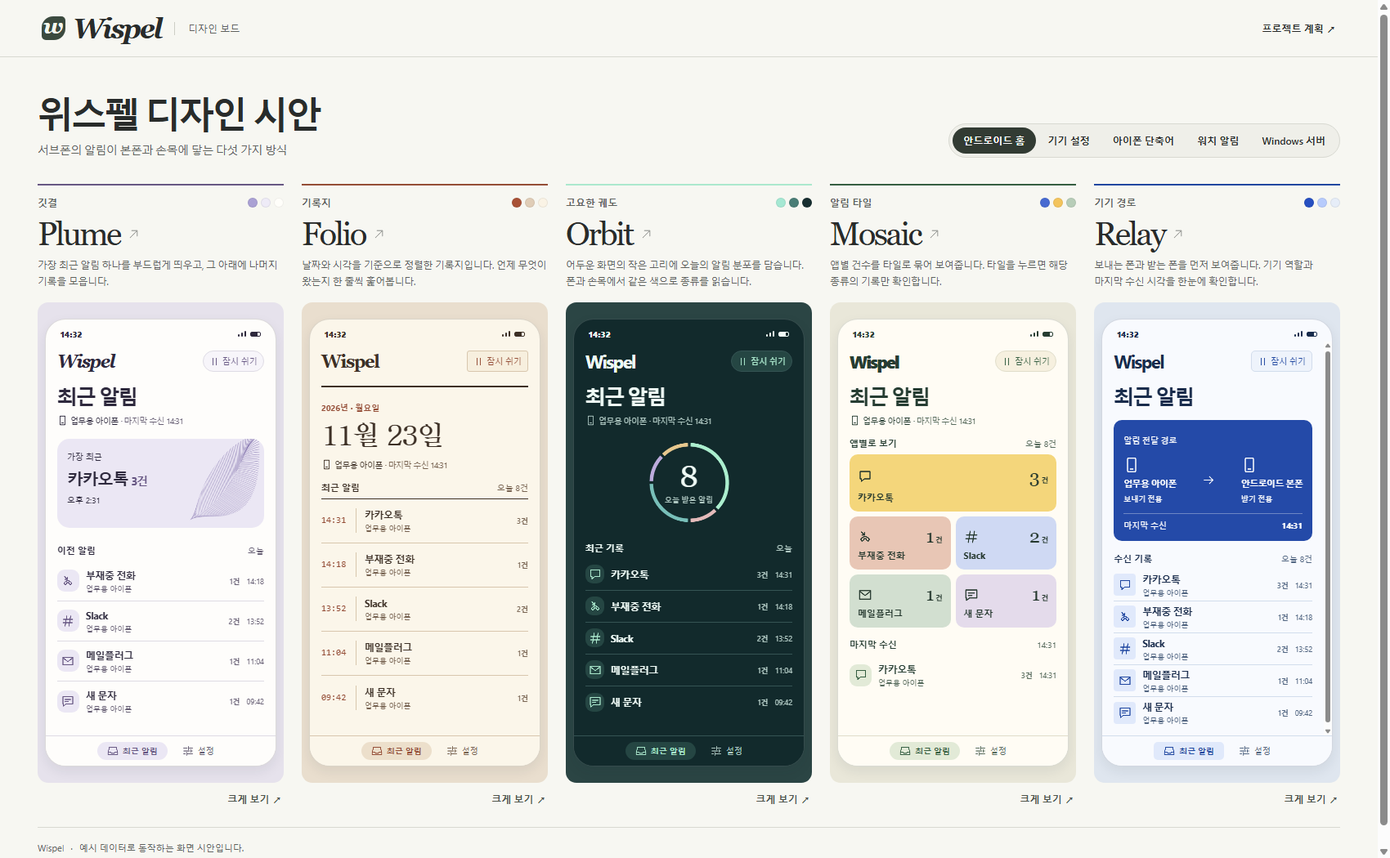
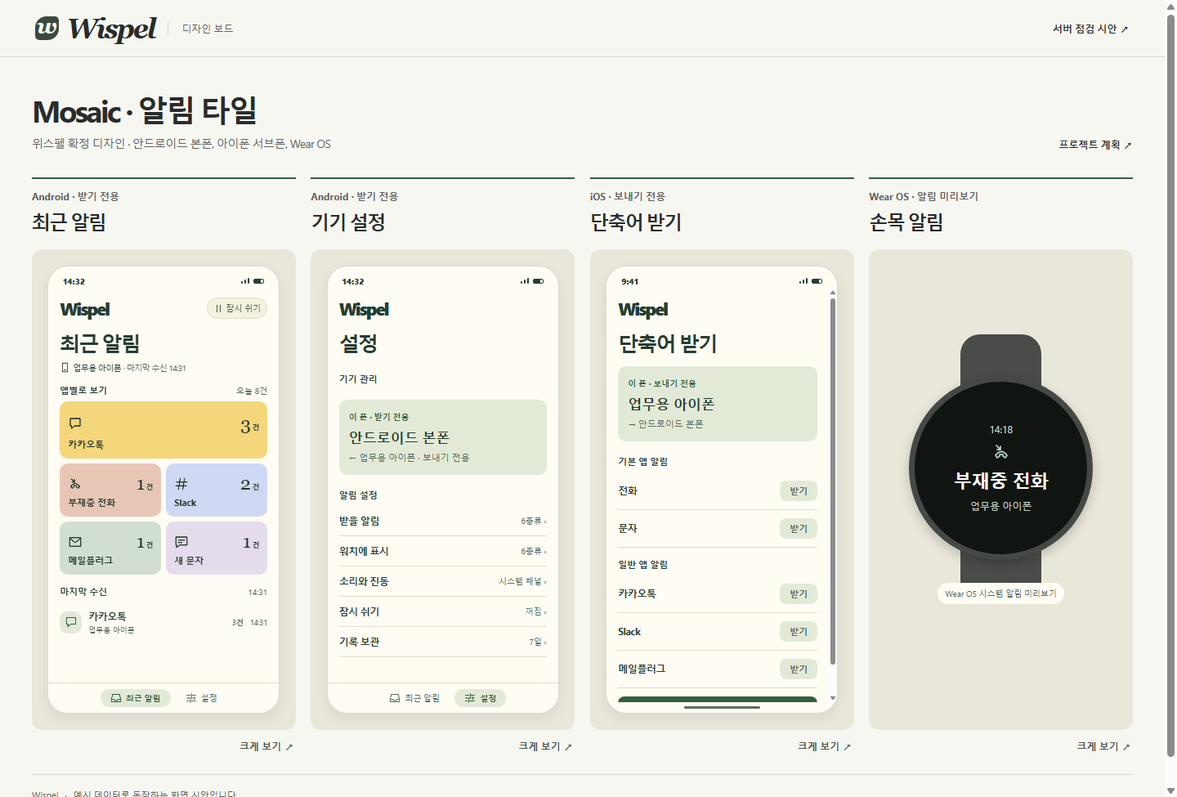
Mosaic 디자인 확정 및 읽기 전용 서버 점검 웹 분리

diff --git a/design/board.js b/design/board.js
@@ -1,12 +1,6 @@
 function buildBoard() {
-  const concepts = [
-    {id:'plume',name:'Plume',label:'깃결',desc:'가장 최근 알림 하나를 부드럽게 띄우고, 그 아래에 나머지 기록을 모읍니다.',palette:['#aaa1d4','#eeebf7','#fffefa']},
-    {id:'folio',name:'Folio',label:'기록지',desc:'날짜와 시각을 기준으로 정렬한 기록지입니다. 언제 무엇이 왔는지 한 줄씩 훑어봅니다.',palette:['#a85136','#e0cdb7','#faf3e5']},
-    {id:'orbit',name:'Orbit',label:'고요한 궤도',desc:'어두운 화면의 작은 고리에 오늘의 알림 분포를 담습니다. 폰과 손목에서 같은 색으로 종류를 읽습니다.',palette:['#a5e8d3','#497d76','#172e30']},
-    {id:'tiles',name:'Mosaic',label:'알림 타일',desc:'앱별 건수를 타일로 묶어 보여줍니다. 타일을 누르면 해당 종류의 기록만 확인합니다.',palette:['#476ad1','#f3c45d','#b7cdb8']},
-    {id:'relay',name:'Relay',label:'기기 경로',desc:'보내는 폰과 받는 폰을 먼저 보여줍니다. 기기 역할과 마지막 수신 시각을 한눈에 확인합니다.',palette:['#264fc1','#b7cbfc','#e6edf8']}
-  ];
-  const views = {home:'안드로이드 홈',settings:'기기 설정',ios:'아이폰 단축어',watch:'워치 알림',server:'Windows 서버'};
+  const views = {home:'최근 알림',settings:'기기 설정',ios:'단축어 받기',watch:'손목 알림'};
+  const labels = {home:'Android · 받기 전용',settings:'Android · 받기 전용',ios:'iOS · 보내기 전용',watch:'Wear OS · 알림 미리보기'};
   const events = [
     {app:'카카오톡',icon:'chat',time:'14:31',qty:3},
     {app:'부재중 전화',icon:'call',time:'14:18',qty:1},
@@ -31,11 +25,10 @@ function buildBoard() {
     bell:'M5 16h14l-2-3V9a5 5 0 0 0-10 0v4z M10 20h4',
     external:'M5 19L19 5M8 5h11v11',retry:'M19 10a7 7 0 1 0 0 6 M19 4v6h-6'
   };
-  const state = concepts.map(()=>({paused:'',until:0,watch:new Set(settingsKinds),receive:new Set(settingsKinds),history:'7일',test:false}));
-  let view='home', selected=0, detailView='home';
+  const state = {paused:'',until:0,watch:new Set(settingsKinds),receive:new Set(settingsKinds),history:'7일'};
+  let detailView='home';
   const gallery=document.querySelector('#gallery'), detail=document.querySelector('#detail'), sheet=document.querySelector('#sheet');
   const icon=(name,size=16)=>`<canvas class="icon" aria-hidden="true" data-icon="${name}" width="48" height="48" style="width:${size}px;height:${size}px"></canvas>`;
-  const art=(type)=>`<canvas class="art art-${type}" data-art="${type}" width="450" height="240" aria-hidden="true"></canvas>`;
   const button=(action,text,cls='',label='')=>`<button type="button" data-action="${action}" class="${cls}"${label?` aria-label="${label}"`:''}>${text}</button>`;
   const dot=(e)=>`<span class="app-icon i-${e.icon}">${icon(e.icon)}</span>`;
   const total=events.reduce((n,e)=>n+e.qty,0);
@@ -45,24 +38,16 @@ function buildBoard() {
   function list(items,mode='') {
     return `<div class="events ${mode}">${items.map(e=>`<div class="event"><time>${e.time}</time>${dot(e)}<div class="event-label"><strong>${e.app}</strong><small>업무용 아이폰</small></div><b class="qty">${e.qty}건</b></div>`).join('')}</div>`;
   }
-  function route() {
-    return `<div class="route"><div>${icon('phone',20)}<strong>업무용 아이폰</strong><small>보내기 전용</small></div>${icon('arrow',17)}<div>${icon('phone',20)}<strong>안드로이드 본폰</strong><small>받기 전용</small></div></div>`;
-  }
-  function home(i) {
-    const s=state[i], pause=button('pause',icon(s.paused?'play':'pause',13)+(s.paused?'재개':'잠시 쉬기'),'pill');
+  function home() {
+    const s=state, pause=button('pause',icon(s.paused?'play':'pause',13)+(s.paused?'재개':'잠시 쉬기'),'pill');
     const source=`<div class="source">${icon('phone',13)} 업무용 아이폰 <span>· 마지막 수신 14:31</span></div>`;
     const header=`<div class="app-head"><span class="word">Wispel</span>${pause}</div>`;
     const section=(name,n)=>`<div class="section-label"><b>${name}</b><span>${n}</span></div>`;
-    let body='';
-    if(i===0) body=`<h3>최근 알림</h3>${source}<div class="hero feather">${art('feather')}<small>가장 최근</small><strong>카카오톡 <em>3건</em></strong><span>오후 2:31</span></div>${section('이전 알림','오늘')}${list(events.slice(1))}`;
-    if(i===1) body=`<div class="folio-title"><small>2026년 · 월요일</small><h3>11월 23일</h3></div>${source}${section('최근 알림',`오늘 ${total}건`)}${list(events,'timeline')}`;
-    if(i===2) body=`<h3>최근 알림</h3>${source}<div class="orbit-stat">${art('ring')}<div><strong>${total}</strong><small>오늘 받은 알림</small></div></div>${section('최근 기록','오늘')}${list(events,'compact')}`;
-    if(i===3) body=`<h3>최근 알림</h3>${source}${section('앱별로 보기',`오늘 ${total}건`)}<div class="tile-grid">${events.map(e=>button('app-'+e.icon,`${icon(e.icon,18)}<b>${e.qty}<small>건</small></b><strong>${e.app}</strong>`,'tile t-'+e.icon)).join('')}</div>${section('마지막 수신','14:31')}${list(events.slice(0,1))}`;
-    if(i===4) body=`<h3>최근 알림</h3><div class="route-hero"><small>알림 전달 경로</small>${route()}<div class="last">마지막 수신 <b>14:31</b></div></div>${section('수신 기록',`오늘 ${total}건`)}${list(events,'compact')}`;
+    const body=`<h3>최근 알림</h3>${source}${section('앱별로 보기',`오늘 ${total}건`)}<div class="tile-grid">${events.map(e=>button('app-'+e.icon,`${icon(e.icon,18)}<b>${e.qty}<small>건</small></b><strong>${e.app}</strong>`,'tile t-'+e.icon)).join('')}</div>${section('마지막 수신','14:31')}${list(events.slice(0,1))}`;
     return header+(s.paused?`<div class="notice">전달 일시정지 · ${s.paused}</div>`:'')+body;
   }
-  function settings(i) {
-    const s=state[i];
+  function settings() {
+    const s=state;
     const row=(key,title,sub)=>button(key,`<b>${title}</b><span>${sub} ›</span>`,'setting-row');
     return `<div class="app-head"><span class="word">Wispel</span></div><h3>설정</h3>
       <div class="section-label"><b>기기 관리</b></div><div class="device-card"><small>이 폰 · 받기 전용</small><strong>안드로이드 본폰</strong><div>← 업무용 아이폰 · 보내기 전용</div></div>
@@ -72,18 +57,13 @@ function buildBoard() {
     const rows=(names)=>names.map(name=>`<div class="shortcut"><b>${name}</b>${button('shortcut-'+name,'받기','get',`${name} 단축어 받기`)}</div>`).join('');
     return `<div class="app-head"><span class="word">Wispel</span></div><h3>단축어 받기</h3><div class="device-card"><small>이 폰 · 보내기 전용</small><strong>업무용 아이폰</strong><div>→ 안드로이드 본폰</div></div><div class="section-label"><b>기본 앱 알림</b></div>${rows(['전화','문자'])}<div class="section-label"><b>일반 앱 알림</b></div>${rows(['카카오톡','Slack','메일플러그'])}${button('ios-test','시험 알림 보내기','primary')}`;
   }
-  function watch(i) {
-    const s=state[i], visible=s.watch.has('부재중 전화')&&s.receive.has('부재중 전화')&&!s.paused;
+  function watch() {
+    const s=state, visible=s.watch.has('부재중 전화')&&s.receive.has('부재중 전화')&&!s.paused;
     return `<div class="watch-wrap"><span class="strap"></span><div class="dial"><time>14:18</time>${icon('call',24)}<b>${visible?'부재중 전화':'알림 없음'}</b><small>${visible?'업무용 아이폰':'위스펠'}</small></div></div><div class="watch-caption">Wear OS 시스템 알림 미리보기</div>`;
   }
-  function server(i,large) {
-    const s=state[i], stage=s.test?'시험 알림':'카카오톡';
-    return `<div class="server ${large?'large':''}"><div class="window-head"><i></i><i></i><i></i><span>Wispel · 로컬 관리</span></div><div class="server-pad"><div class="app-head"><span class="word">Wispel</span><small>서비스 실행 중</small></div><h3>전달 현황</h3><div class="stats"><div><small>발송 대기</small><b>0</b></div><div><small>최근 오류</small><b>0</b></div></div><div class="section-label"><b>등록 기기</b></div>${route()}<div class="section-label"><b>최근 이벤트</b><span>${stage}</span></div><ol class="trace">${['서버 접수','FCM 접수','본폰 수신 확인'].map((t,j)=>`<li><b>${t}</b><time>${s.test?'14:32':'14:31'}:0${j}</time></li>`).join('')}</ol>${button('test','본폰에 시험 알림 보내기','primary')}${button('register','기기 등록','secondary')}</div></div>`;
-  }
-  function frame(i,key,large=false) {
-    if(key==='watch') return watch(i);
-    if(key==='server') return server(i,large);
-    return `<div class="phone ${key}">${status(key==='ios')}<div class="screen">${key==='home'?home(i):key==='ios'?ios():settings(i)}</div>${key==='ios'?'<div class="ios-home"></div>':`<nav class="phone-nav" aria-label="본폰 메뉴">${button('nav-home',icon('inbox',14)+'최근 알림',key==='home'?'active':'')}${button('nav-settings',icon('settings',14)+'설정',key==='settings'?'active':'')}</nav>`}</div>`;
+  function frame(key) {
+    if(key==='watch') return watch();
+    return `<div class="phone ${key}">${status(key==='ios')}<div class="screen">${key==='home'?home():key==='ios'?ios():settings()}</div>${key==='ios'?'<div class="ios-home"></div>':`<nav class="phone-nav" aria-label="본폰 메뉴">${button('nav-home',icon('inbox',14)+'최근 알림',key==='home'?'active':'')}${button('nav-settings',icon('settings',14)+'설정',key==='settings'?'active':'')}</nav>`}</div>`;
   }
   function viewButtons(active) {
     return Object.entries(views).map(([key,label])=>`<button data-view="${key}" aria-pressed="${key===active}">${label}</button>`).join('');
@@ -95,40 +75,25 @@ function buildBoard() {
       if(c.dataset.icon) {
         ctx.save();ctx.scale(2,2);ctx.strokeStyle=getComputedStyle(c).color;ctx.lineWidth=1.65;ctx.lineCap='round';ctx.lineJoin='round';
         const path=paths[c.dataset.icon]; if(path) ctx.stroke(new Path2D(path));ctx.restore();
-      } else if(c.dataset.art==='feather') {
-        ctx.save();ctx.translate(210,130);ctx.rotate(-0.72);
-        for(let k=0;k<66;k++) {
-          const t=k/65,x=-120+260*t, y=27*Math.sin(t*Math.PI)-22*t, width=70*Math.pow(Math.sin(t*Math.PI),0.8);
-          ctx.strokeStyle=`rgba(99,79,151,${0.28+0.27*t})`;ctx.lineWidth=1.5;
-          for(const side of [-1,1]) {
-            ctx.beginPath();ctx.moveTo(x,y);ctx.quadraticCurveTo(x+8+24*t,y+side*width*.55,x+24+20*t,y+side*width);ctx.stroke();
-          }
-        }
-        ctx.restore();
-      } else {
-        const colors=['#abeece','#e3baba','#78bfb9','#bcabdc','#e6c78e'];
-        let angle=-Math.PI/2;
-        events.forEach((e,j)=>{const end=angle+2*Math.PI*e.qty/total;ctx.beginPath();ctx.strokeStyle=colors[j];ctx.lineWidth=9;ctx.arc(225,120,95,angle+.035,end-.035);ctx.stroke();angle=end;});
       }
     }
   }
   function draw() {
-    for(const s of state) if(s.until && Date.now()>=s.until){s.paused='';s.until=0;}
-    document.querySelector('#views').innerHTML=viewButtons(view);
-    gallery.innerHTML=concepts.map((c,i)=>`<article class="board ${c.id}" data-i="${i}"><div class="board-top"><span>${c.label}</span><div class="palette" aria-hidden="true">${c.palette.map(p=>`<i style="background:${p}"></i>`).join('')}</div></div><h2>${button('expand',c.name+' '+icon('external',15),'expand',`${c.label} 시안 크게 보기`)}</h2><p class="summary">${c.desc}</p><div class="stage stage-${view}">${frame(i,view)}</div>${button('expand','크게 보기 ↗','open-detail')}</article>`).join('');
+    if(state.until && Date.now()>=state.until){state.paused='';state.until=0;}
+    gallery.innerHTML=Object.entries(views).map(([key,label])=>`<article class="board tiles" data-screen="${key}"><div class="board-top">${labels[key]}</div><h2>${label}</h2><div class="stage stage-${key}">${frame(key)}</div>${button('expand','크게 보기 ↗','open-detail',label+' 크게 보기')}</article>`).join('');
     paint(gallery);
     if(detail.open) renderDetail();
   }
   function renderDetail() {
-    const c=concepts[selected];
-    document.querySelector('#detail-heading').textContent=c.name+' · '+c.label;
-    document.querySelector('#detail-copy').textContent=c.desc;
+    document.querySelector('#detail-heading').textContent=views[detailView];
+    document.querySelector('#detail-copy').textContent=labels[detailView];
     document.querySelector('#detail-views').innerHTML=viewButtons(detailView);
     const stage=document.querySelector('#detail-stage');
-    stage.className=`stage ${c.id} stage-${detailView}`;stage.innerHTML=frame(selected,detailView,true);paint(stage);
+    stage.className=`stage tiles stage-${detailView}`;
+    stage.innerHTML=frame(detailView);paint(stage);
   }
-  function openDetail(i,key) {
-    selected=i;detailView=key;
+  function openDetail(key) {
+    detailView=key;
     if(!detail.open) detail.showModal();
     renderDetail();
   }
@@ -136,10 +101,9 @@ function buildBoard() {
     document.querySelector('#sheet-content').innerHTML=`<h2 id="sheet-title">${title}</h2>${body}`;
     if(!sheet.open) sheet.showModal();
   }
-  function act(i,key) {
-    const s=state[i];
-    if(key==='expand') return openDetail(i,view);
-    if(key.startsWith('nav-')) return openDetail(i,key.slice(4));
+  function act(key) {
+    const s=state;
+    if(key.startsWith('nav-')) return openDetail(key.slice(4));
     if(key==='pause') {
       if(s.paused){s.paused='';s.until=0;draw();return;}
       return popup('잠시 쉬기','<p>쉬는 동안 기록은 유지하고 본폰과 워치 알림을 멈춥니다.</p>'+button('rest-hour','1시간','choice')+button('rest-manual','다시 켤 때까지','choice'));
@@ -159,26 +123,20 @@ function buildBoard() {
       const e=events.find(row=>row.icon===key.slice(4));return popup(e.app,`<p>업무용 아이폰 · 오늘 ${e.qty}건</p><p>마지막 수신 ${e.time}</p>`);
     }
     if(key==='ios-test') return popup('시험 알림','<p>예시 결과 · Windows 서버 접수</p><p>본폰의 최근 알림에서 실제 수신 시각을 확인합니다.</p>');
-    if(key==='test'){s.test=true;draw();return popup('시험 알림','<p>예시 이벤트의 서버 접수, FCM 접수, 본폰 수신 확인 시각을 갱신했습니다.</p>');}
-    if(key==='register') return popup('기기 등록',button('qr-send','서브폰 추가 · 보내기 전용','choice')+button('qr-receive','본폰 등록 · 받기 전용','choice'));
-    if(key.startsWith('qr-')) return popup('등록 역할 확인',`<p>${key==='qr-send'?'서브폰 · 보내기 전용':'본폰 · 받기 전용'}</p><p>실제 서버에서는 선택한 역할의 일회용 QR을 표시합니다.</p>`);
   }
   document.addEventListener('click',event=>{
     const b=event.target.closest('button');if(!b)return;
     if(b.id==='close'){detail.close();return;}
     if(b.classList.contains('sheet-close')){sheet.close();return;}
     if(b.dataset.view){
-      if(detail.open){detailView=b.dataset.view;renderDetail();}
-      else{view=b.dataset.view;draw();}
-      return;
+      detailView=b.dataset.view;renderDetail();return;
     }
-    if(!b.dataset.action)return;
-    const board=b.closest('[data-i]');if(board) selected=Number(board.dataset.i);
-    act(selected,b.dataset.action);
+    if(b.dataset.action==='expand') return openDetail(b.closest('[data-screen]').dataset.screen);
+    if(b.dataset.action) act(b.dataset.action);
   });
   sheet.addEventListener('change',event=>{
     const el=event.target;if(!el.dataset.group)return;
-    const group=state[selected][el.dataset.group];
+    const group=state[el.dataset.group];
     if(el.checked) group.add(el.value);else group.delete(el.value);
     draw();
   });

diff --git a/design/diagnostics.html b/design/diagnostics.html
@@ -1,0 +1,27 @@
+<!doctype html>
+<html lang="ko">
+<head>
+  <meta charset="utf-8">
+  <meta name="viewport" content="width=device-width,initial-scale=1">
+  <title>Wispel · 서버 점검</title>
+  <link rel="stylesheet" href="board.css">
+  <link rel="stylesheet" href="diagnostics.css">
+</head>
+<body>
+  <header class="mast"><a class="brand" href="index.html"><span class="brand-mark" aria-hidden="true">w</span>Wispel</a><span class="mast-sub">서버 점검</span><a class="plan-link" href="index.html">Mosaic 확정안 ↗</a></header>
+  <main class="diag">
+    <header class="intro"><div><h1>전달 상태</h1><p>로컬 점검 도구 · 예시 데이터</p></div><small>마지막 조회 <time>14:32:10</time></small></header>
+    <section class="metrics" aria-label="서비스 상태">
+      <article><h2>Windows 서비스</h2><strong>실행 중</strong><small>최근 시작 09:00</small></article>
+      <article><h2>발송 대기</h2><strong>1<small>건</small></strong><small>가장 오래된 대기 12초</small></article>
+      <article><h2>최근 1시간 오류</h2><strong>1<small>건</small></strong><small>FCM 일시 오류 · 재시도 대기</small></article>
+    </section>
+    <section class="diagnostic-panel"><h2>최근 이벤트</h2><p>항목을 펼쳐 단계별 처리 시각을 확인하세요.</p>
+      <details open><summary><time>14:31:58</time><b>메일플러그</b><span class="pending">재시도 대기</span></summary><div class="steps"><div>서버 접수<b>14:31:58</b></div><div>FCM 접수<b>일시 오류 · 재시도 예정</b></div><div>본폰 수신 확인<b>대기 중</b></div></div></details>
+      <details><summary><time>14:31:00</time><b>카카오톡</b><span>본폰 수신 확인</span></summary><div class="steps"><div>서버 접수<b>14:31:00</b></div><div>FCM 접수<b>14:31:01</b></div><div>본폰 수신 확인<b>14:31:02</b></div></div></details>
+      <details><summary><time>14:18:00</time><b>부재중 전화</b><span>본폰 수신 확인</span></summary><div class="steps"><div>서버 접수<b>14:18:00</b></div><div>FCM 접수<b>14:18:01</b></div><div>본폰 수신 확인<b>14:18:03</b></div></div></details>
+    </section>
+    <section class="diagnostic-panel"><h2>등록 기기</h2><dl class="devices"><div><dt>업무용 아이폰</dt><dd>보내기 전용 · 마지막 접수 14:31:58</dd></div><div><dt>안드로이드 본폰</dt><dd>받기 전용 · 마지막 수신 확인 14:31:02</dd></div></dl></section>
+  </main>
+</body>
+</html>

diff --git a/design/index.html b/design/index.html
@@ -3,20 +3,20 @@
 <head>
   <meta charset="utf-8">
   <meta name="viewport" content="width=device-width, initial-scale=1">
-  <title>Wispel · 디자인 시안</title>
+  <title>Wispel · Mosaic 확정안</title>
   <link rel="stylesheet" href="board.css">
   <script defer src="board.js"></script>
 </head>
 <body>
-  <header class="mast"><a href="index.html" class="brand" aria-label="위스펠 디자인 보드 홈"><span class="brand-mark" aria-hidden="true">w</span>Wispel</a><span class="mast-sub">디자인 보드</span><a class="plan-link" href="../plan.md">프로젝트 계획 ↗</a></header>
+  <header class="mast"><a href="index.html" class="brand" aria-label="위스펠 디자인 홈"><span class="brand-mark" aria-hidden="true">w</span>Wispel</a><span class="mast-sub">디자인 보드</span><a class="plan-link" href="diagnostics.html">서버 점검 시안 ↗</a></header>
   <main>
-    <section class="intro"><div><h1>위스펠 디자인 시안</h1><p>서브폰의 알림이 본폰과 손목에 닿는 다섯 가지 방식</p></div><div class="view-bar" id="views" role="group" aria-label="비교할 화면"></div></section>
-    <section id="gallery" aria-label="다섯 가지 디자인 시안"></section>
+    <section class="intro"><div><h1>Mosaic · 알림 타일</h1><p>위스펠 확정 디자인 · 안드로이드 본폰, 아이폰 서브폰, Wear OS</p></div><a href="../plan.md" class="plan-link">프로젝트 계획 ↗</a></section>
+    <section id="gallery" class="approved" aria-label="Mosaic 주요 화면"></section>
     <footer>Wispel <span>·</span> 예시 데이터로 동작하는 화면 시안입니다.</footer>
   </main>
   <dialog id="detail" aria-labelledby="detail-heading">
     <div class="dialog-body">
-      <div class="detail-info"><button id="close" class="back">← 전체 시안</button><h2 id="detail-heading"></h2><p id="detail-copy"></p><div id="detail-views" class="detail-views" role="group" aria-label="시안 화면 선택"></div><p class="detail-note">시안에서 바꾼 설정은 이 페이지에서만 적용됩니다.</p></div>
+      <div class="detail-info"><button id="close" class="back">← 전체 화면</button><h2 id="detail-heading"></h2><p id="detail-copy"></p><div id="detail-views" class="detail-views" role="group" aria-label="화면 선택"></div><p class="detail-note">시안에서 바꾼 설정은 이 페이지에서만 적용됩니다.</p></div>
       <div id="detail-stage"></div>
     </div>
   </dialog>

diff --git a/design/diagnostics.css b/design/diagnostics.css
@@ -1,0 +1,19 @@
+.diag{max-width:1080px;margin:0 auto;padding-bottom:36px;color:#26382f}
+.diag .intro{border-bottom:1px solid #cdd4c9;padding-bottom:22px}
+.diag .intro>small,.diag article>small,.diagnostic-panel p,.devices dd{color:#58675e;font-size:12px}
+.metrics{display:grid;grid-template-columns:repeat(3,1fr);gap:14px;margin:20px 0}
+.metrics article,.diagnostic-panel{border:1px solid #cdd4c9;border-radius:15px;padding:20px}
+.metrics article{display:grid;gap:11px;background:#d6e5d9}
+.metrics article:nth-child(2){background:#f5dfa1}.metrics article:nth-child(3){background:#edcfbd}
+.metrics h2{font-size:14px;margin:0}.metrics strong{font-size:32px;letter-spacing:-.06em}.metrics strong small{font-size:14px;margin-left:4px}
+.diagnostic-panel{margin-top:16px;background:#fffef8}.diagnostic-panel h2{margin:0 0 5px;font-size:21px;letter-spacing:-.06em}
+.diagnostic-panel p{margin:4px 0 17px}
+.diag details{border-top:1px solid #dce0d5}
+.diag summary{cursor:pointer;padding:13px 0;display:grid;grid-template-columns:18px 90px 1fr auto;align-items:center;gap:10px;font-size:13px}
+.diag summary::before{content:'›';font-size:20px}.diag details[open] summary::before{transform:rotate(90deg)}
+.diag summary time{font-variant-numeric:tabular-nums;color:#526455}.diag summary span{background:#deeadf;color:#36553d;border-radius:12px;padding:4px 9px;font-size:11px}
+.diag .pending{background:#f8e7b6;color:#6a4d12}
+.steps{padding:13px 17px;margin:0 0 12px;background:#f2f3ed;display:grid;grid-template-columns:repeat(3,1fr);gap:10px;border-radius:9px}
+.steps div{display:grid;gap:5px;font-size:12px;color:#5b685e}.steps b{color:#293e31;font-variant-numeric:tabular-nums}
+.devices{display:grid;grid-template-columns:1fr 1fr;gap:12px;margin:15px 0 0}.devices dt{font-size:14px;font-weight:bold}.devices dd{margin:4px 0 0}
+@media(max-width:600px){.metrics{gap:5px}.metrics article{padding:10px}.metrics h2,.metrics article>small{font-size:10px}.metrics strong{font-size:21px}.diagnostic-panel{padding:14px}.diag summary{grid-template-columns:10px 62px 1fr auto;gap:5px;font-size:12px}.steps,.devices{grid-template-columns:1fr}.steps{gap:9px}.steps div{grid-template-columns:100px 1fr}}

diff --git a/design/board.css b/design/board.css
@@ -131,3 +131,7 @@ dialog::backdrop{background:#19221c88}
 @media(max-width:820px){#gallery{grid-template-columns:repeat(2,minmax(0,1fr))}.intro{padding:25px 0}.view-bar{border-radius:13px}.dialog-body{grid-template-columns:190px minmax(280px,1fr)}}
 @media(max-width:560px){#gallery{grid-template-columns:minmax(0,1fr)}.board{padding-top:12px}.stage{min-height:0;padding:15px}.stage-watch{min-height:370px}.summary{min-height:0}.mast{min-height:56px}.mast-sub{font-size:10px}.plan-link{font-size:10px}.view-bar button{font-size:11px;padding:7px 9px}.dialog-body{display:flex;flex-direction:column}.detail-info{padding:12px 15px}.detail-info h2{font-size:23px;margin:9px 0 4px}.detail-info p,.detail-info .detail-note{display:none}.detail-views{display:flex;flex-wrap:wrap;gap:0;margin:3px 0}.detail-views button{font-size:10px;padding:5px 7px}#detail-stage{min-height:0;padding:10px}#detail-stage .phone{height:min(570px,64dvh)}#detail-stage.stage-watch{min-height:350px}.board h2{margin:5px 0}.expand{font-size:34px}}
 @media print{.mast,.intro,.open-detail,footer,dialog{display:none!important}main{padding:0}#gallery{display:grid;grid-template-columns:repeat(2,1fr);gap:12px}.board{break-inside:avoid}.stage{min-height:550px}body{-webkit-print-color-adjust:exact;print-color-adjust:exact}}
+#gallery.approved{grid-template-columns:repeat(4,minmax(0,1fr))}
+.approved h2{font-size:23px;letter-spacing:-.07em;margin:8px 0 18px}
+@media(max-width:1100px){#gallery.approved{grid-template-columns:repeat(2,minmax(0,1fr))}}
+@media(max-width:560px){#gallery.approved{grid-template-columns:1fr}}

diff --git a/plan.md b/plan.md
@@ -2,7 +2,7 @@
 
 위스펠은 서브폰을 꺼내지 않고도 어느 기기에 어떤 알림이 왔는지 확인하는 앱입니다. 첫 사용 환경은 **iOS 27.2.1 아이폰이 서브폰, 안드로이드가 본폰, 본폰에 연결된 Wear OS 워치가 보조 수신기**인 구성입니다. 손목에 뜨는 `업무용 아이폰 · 부재중 전화` 한 줄로 필요한 판단을 할 수 있는 것이 목표입니다.
 
-화면 설계는 [디자인 시안 비교 보드](design/index.html)에서 확인할 수 있습니다. 다섯 후보가 같은 예시 알림을 사용하며 안드로이드 홈·설정, 아이폰 단축어 받기, 워치 알림, Windows 서버 관리 화면을 비교할 수 있습니다.
+확정 디자인은 **4번 Mosaic · 알림 타일**입니다. 앱별 건수를 타일로 표시하고, 타일을 누르면 해당 종류의 기록을 확인합니다. [본폰·아이폰·워치 확정안](design/index.html)과 [Windows 서버 점검 웹 시안](design/diagnostics.html)을 각각 열 수 있습니다.
 
 ## 1. 전달 구조
 
@@ -100,14 +100,17 @@ wispel/
 
 첫 버전은 집의 Windows PC 한 대에서 **한 사용자의 여러 서브폰과 안드로이드 본폰 한 대**를 연결합니다. `windows-server/`에 C#·ASP.NET Core 서비스와 SQLite 저장소를 둡니다. PC를 재시작하면 로그인 전에도 서비스를 자동 시작하고, 저장해 둔 발송 대기를 이어서 처리합니다. PC가 절전 상태이거나 인터넷이 끊긴 동안에는 아이폰이 이벤트를 보관하고 다음 전송 기회에 재시도합니다.
 
-### 운영자가 쓰는 기능
+### 화면 없는 서비스와 별도 점검 도구
+
+알림 전달 서비스는 웹 화면을 호스팅하지 않습니다. 운영자가 점검 도구를 실행할 때만 별도 프로세스가 루프백 주소에서 웹 화면을 제공합니다. 도구는 현재 Windows 사용자의 접근 권한을 확인하고 로컬 읽기 전용 진단 인터페이스로 상태를 조회합니다. 모바일 HTTPS API와 점검 화면은 분리합니다. 도구를 닫거나 실행하지 않아도 서버 접수·발송·재시도가 계속됩니다.
 
 | 기능 | 동작 |
 |---|---|
-| 최초 설정 | PC의 로컬 관리 화면에서 모바일 기기가 접근할 HTTPS 주소와 FCM 발송 자격 증명을 설정합니다. 관리 화면은 로컬 접근과 관리자 인증으로 제한합니다. 외부 주소는 아이폰의 Wi-Fi를 끈 상태에서 접속을 시험합니다. |
-| 기기 등록 | 관리 화면에서 `본폰 등록 · 받기 전용` 또는 `서브폰 추가 · 보내기 전용`을 선택하면 해당 역할의 일회용 QR을 발급합니다. QR에는 만료 시각을 두고, 사용하면 기기 전용 자격 증명을 발급한 뒤 등록 코드를 폐기합니다. 공유 단축어에는 이 값이 들어가지 않습니다. |
-| 기기 관리 | 등록한 기기의 이름, 역할, 마지막 접수·수신 시각을 확인하고 이름 변경이나 연결 해제를 할 수 있습니다. 본폰 교체 시 새 수신기를 등록하고 이전 본폰의 발송 대상과 접근 권한을 해제합니다. 발송 대상은 서버의 등록 관계로 결정합니다. |
-| 상태와 진단 | 서비스 상태, 발송 대기 건수, 가장 오래된 대기 시간, 최근 오류와 해당 기기를 보여줍니다. `본폰에 시험 알림 보내기`는 실제 FCM 발송 경로를 사용합니다. 이벤트별로 `서버 접수 → FCM 접수 → 본폰 수신 확인` 시각을 표시합니다. 워치 표시는 실기기에서 확인합니다. |
+| 최초 설정 | 로컬 운영 명령(CLI)과 서비스 설정으로 모바일 HTTPS 주소와 FCM 자격 증명 경로를 지정합니다. 자격 증명 파일은 서비스 계정에 읽기 권한을 부여합니다. 외부 접근은 아이폰 셀룰러에서 시험합니다. |
+| 기기 등록 | 운영 CLI가 본폰·서브폰 역할을 선택받아 만료되는 일회용 QR을 출력합니다. 폰에서 스캔해 등록을 마치면 코드를 폐기합니다. |
+| 기기 관리 | 폰 설정에서 허용된 기기 이름 변경과 연결 해제를 수행합니다. 운영 CLI에서도 기기 해제와 본폰 교체가 가능합니다. 새 본폰으로 전환하면 이전 본폰의 발송 대상과 접근 권한을 해제합니다. |
+| 점검 웹 화면 | 서비스 상태와 마지막 조회 시각, 발송 대기 건수·최장 대기 시간, 최근 오류, 기기별 역할과 마지막 접수·확인 시각을 조회합니다. 이벤트를 펼치면 서버 접수 → FCM 접수 → 본폰 수신 확인 단계가 나옵니다. 서비스 조회 실패 시 마지막 조회 시각과 조회 실패를 표시합니다. |
+| 시험 발송 | 아이폰 앱이나 로컬 운영 CLI에서 시작합니다. 점검 웹에서는 결과를 읽고, 워치 표시는 실기기에서 확인합니다. |
 
 ### 이벤트 한 건을 처리하는 순서
 
@@ -122,7 +125,8 @@ wispel/
 
 - 같은 QR을 동시에 두 번 사용해도 한 기기만 등록됩니다. 만료된 코드, 해제된 기기, 다른 발신 기기 ID로 보낸 이벤트는 접수되지 않습니다.
 - 같은 이벤트의 동시 요청, 접수 응답 유실, 발송 직후 서비스 재시작을 각각 시험합니다. 접수된 이벤트가 유실되지 않고 본폰에는 한 번만 집계되어야 합니다.
-- FCM 일시 장애, 본폰 토큰 교체, 이벤트 만료를 재현합니다. 대기·재시도·만료 원인이 관리 화면에 구분되고 새 이벤트는 정상 전달되어야 합니다.
+- FCM 일시 장애, 본폰 토큰 교체, 이벤트 만료를 재현합니다. 대기·재시도·만료 원인이 점검 화면에 구분되고 새 이벤트는 정상 전달되어야 합니다.
+- 점검 도구를 실행하지 않은 상태, 실행 중, 종료한 뒤에 각각 한 건을 발송해 같은 경로로 전달되는지 확인합니다. 점검 인터페이스에는 설정 변경·기기 등록·시험 발송 동작이 없어야 합니다.
 - 본폰을 오프라인으로 두고 발송하면 화면에 `FCM 접수`까지만 표시됩니다. 연결 복구 후 본폰 확인이 도착하면 같은 이벤트의 상태가 갱신되어야 합니다.
 
 ## 6. 구현 순서와 검증 기준
@@ -153,7 +157,7 @@ wispel/
 | 시나리오 | 입력 및 확인할 결과 |
 |---|---|
 | 최초 등록과 재설치 | 일회용 QR로 기기를 등록하고 첫 시험 알림을 보냅니다. 사용한 QR의 재사용은 거부되어야 합니다. 본폰 재설치 후 다시 등록하면 현재 설치본에서 한 번 수신해야 합니다. |
-| 기기 역할과 본폰 교체 | QR 확인 화면, 두 폰의 설정, 서버 관리 화면에서 같은 기기의 역할이 일치해야 합니다. 시험 알림이 보내기 전용 폰에서 받기 전용 폰으로 한 번 전달되는지 확인합니다. 본폰 교체 후 새 이벤트는 새 본폰에만 도착하고, 이전 본폰은 다음 서버 연결 시 해제 상태를 표시해야 합니다. |
+| 기기 역할과 본폰 교체 | QR 확인 화면, 두 폰의 설정, 점검 웹 화면에서 같은 기기의 역할이 일치해야 합니다. 시험 알림이 보내기 전용 폰에서 받기 전용 폰으로 한 번 전달되는지 확인합니다. 본폰 교체 후 새 이벤트는 새 본폰에만 도착하고, 이전 본폰은 다음 서버 연결 시 해제 상태를 표시해야 합니다. |
 | 단축어 받기와 첫 전달 | 초기 설정 화면과 설정 메뉴에서 다섯 버튼을 각각 열어 버튼 이름, 공유본의 대상 앱, 위스펠 동작이 일치하는지 확인합니다. 공유본을 추가하고 활성화한 뒤 아이폰을 잠그고 실제 알림을 발생시킵니다. 서버 주소를 다시 입력하지 않아도 해당 종류가 본폰·워치에 한 번씩 표시되어야 합니다. |
 | 가져오기 취소와 다시 받기 | 공유 화면에서 취소하거나 자동화를 꺼 둔 경우를 시험합니다. 위스펠이 전달 성공으로 표시하지 않아야 합니다. 다시 받은 뒤 같은 대상의 자동화 하나만 켜고 실제 알림 한 건이 중복 없이 도착하는지 확인합니다. |
 | 실제 수신 종류 | 문자(저장된 번호·모르는 번호), Slack DM·멘션, 메일플러그 새 메일, 카카오톡을 개별 시험합니다. 아이폰에서 발생한 알림마다 본폰과 워치에 정확한 기기명과 종류가 한 번씩 나타나야 합니다. |

diff --git a/README.md b/README.md
@@ -1,9 +1,9 @@
 # wispel
 
-위스펠은 서브폰에 도착한 알림의 종류와 출처를 본폰과 워치에서 확인하는 앱입니다. 현재 단계는 기능 설계와 디자인 시안 검토입니다.
+위스펠은 서브폰에 도착한 알림의 종류와 출처를 본폰과 워치에서 확인하는 앱입니다. 확정 디자인은 **Mosaic · 알림 타일(4번)**입니다.
 
-[프로젝트 계획](plan.md) · [디자인 비교 이미지 원본](design/overview.png)
+[프로젝트 계획](plan.md) · [Mosaic 화면 원본](design/overview.png) · [서버 점검 웹 화면 미리보기](design/diagnostics.png)
 
-![위스펠 디자인 후보 다섯 가지](design/overview.png)
+![Mosaic 안드로이드 홈과 설정, 아이폰 단축어, 워치 알림](design/overview.png)
 
-화면 전환과 버튼 동작을 살펴보려면 저장소를 내려받고 [디자인 보드](design/index.html)를 브라우저에서 여세요.
+저장소를 내려받고 [Mosaic 디자인 보드](design/index.html) 또는 [읽기 전용 점검 웹 시안](design/diagnostics.html)을 브라우저에서 여세요. 두 시안 모두 예시 데이터를 사용합니다.
